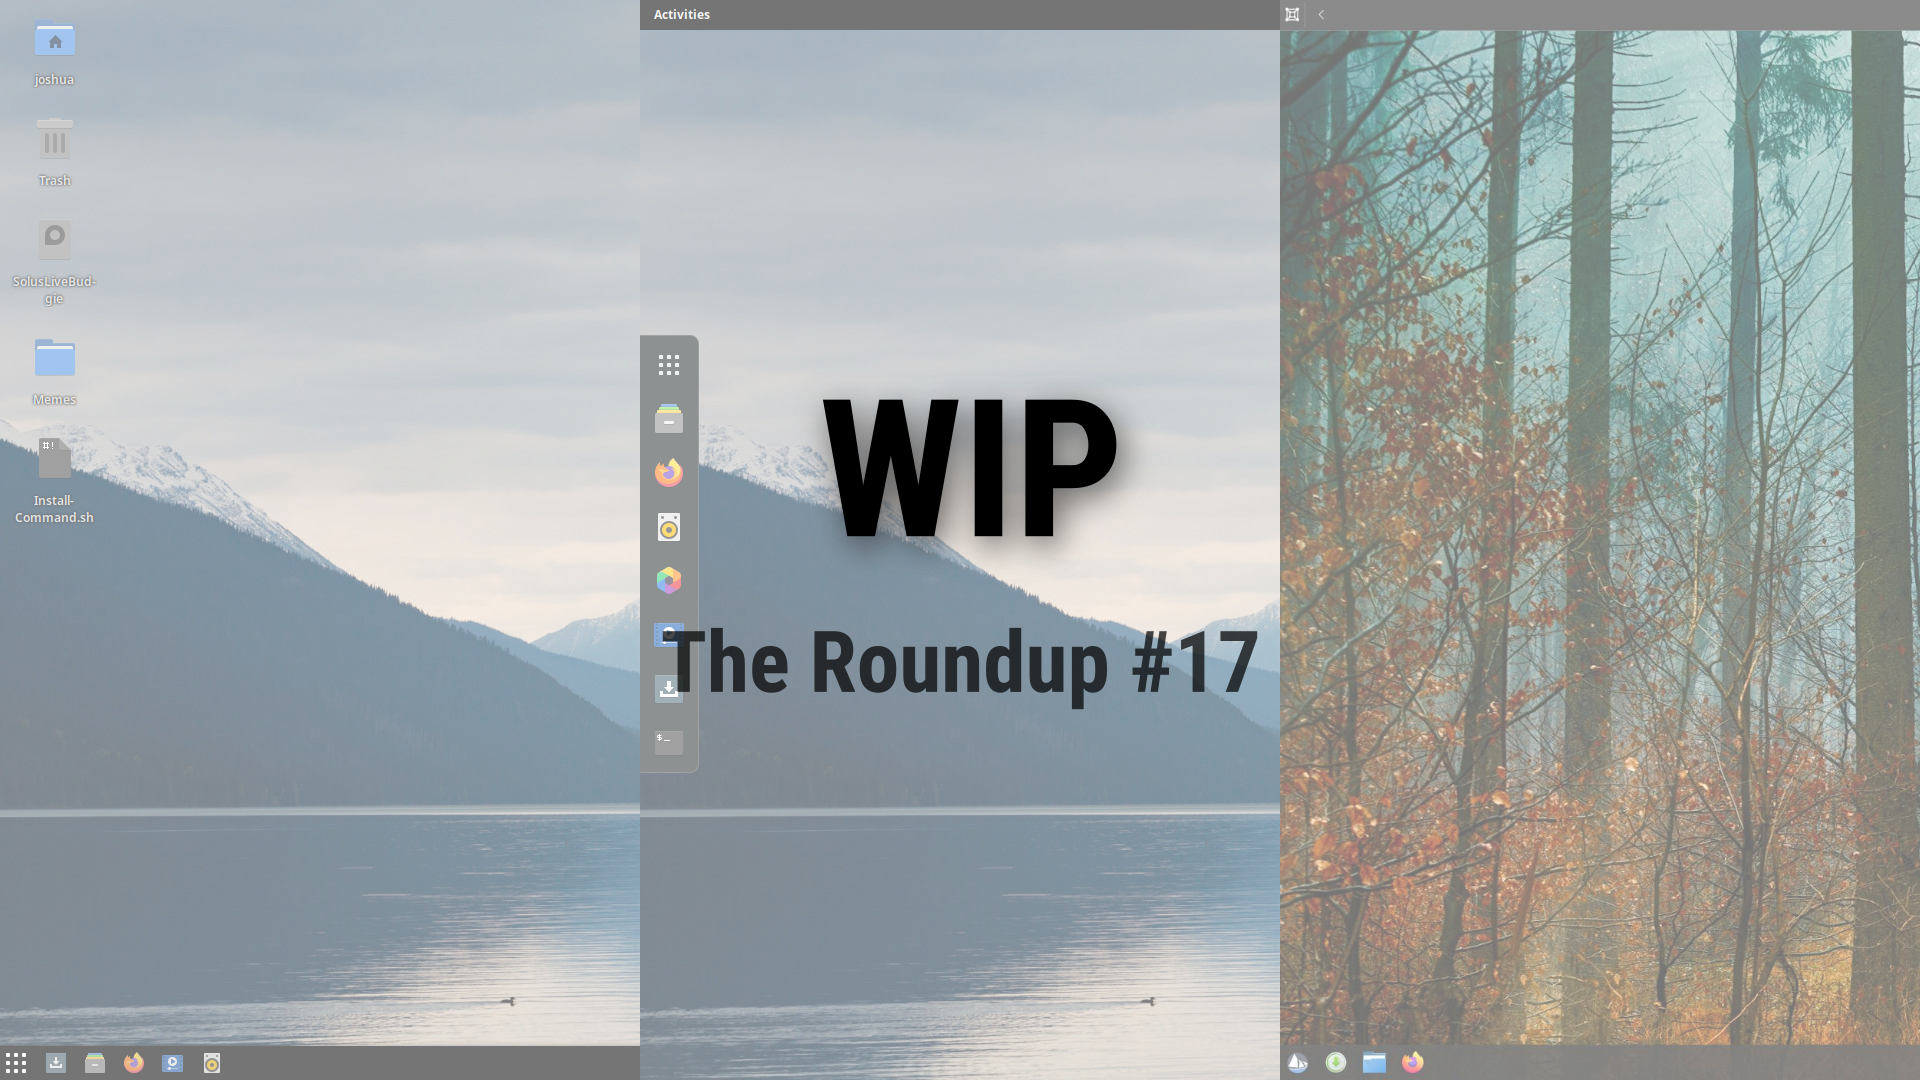
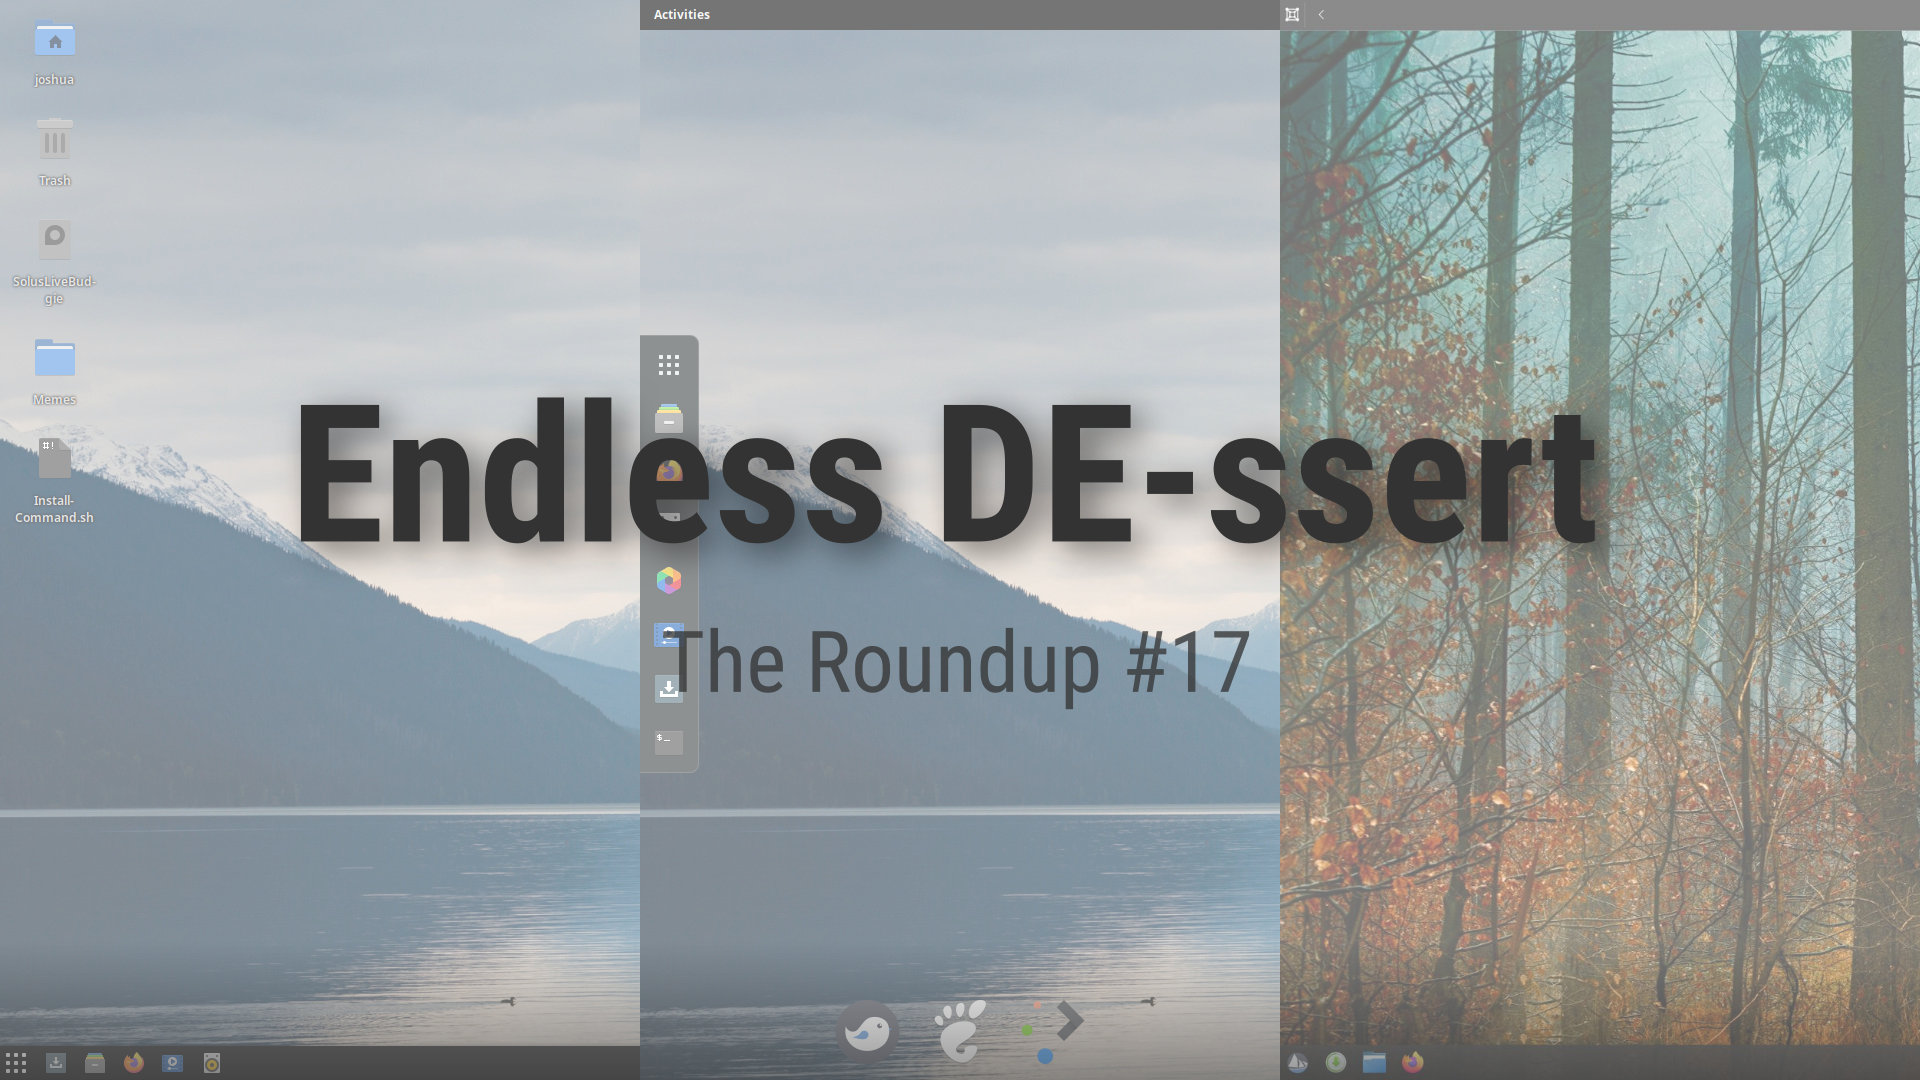
Sync Help Center docs, JS, updated blog post.

Changed region(s): [[0.0, 0.8861, 1.0, 1.0], [0.1562, 0.3667, 0.8438, 0.5194], [0.3438, 0.5806, 0.6562, 0.6722]]

diff --git a/themes/solus/static/js/site-3c250534e219b5e9ec3745b7411ceb74.min.js b/themes/solus/static/js/site-3c250534e219b5e9ec3745b7411ceb74.min.js
@@ -1,0 +1,1 @@
+var site;!function(t){var e=function(){function t(t){"string"!=typeof t.type&&(t.type="normal"),this.opts=t,this.El=document.createElement("div"),this.El.setAttribute("data-site","announcement"),this.El.setAttribute("data-site-type",t.type);var e=document.createElement("span");e.innerHTML=t.message,this.El.appendChild(e);var o=document.createElement("div");o.setAttribute("data-site","announcement-buttons"),this.CloseButton=this.CreateAnnouncementButton("Close"),o.appendChild(this.CloseButton),this.CloseButton.addEventListener("click",this.Hide.bind(this)),"string"==typeof t.url&&0!==t.url.length&&(this.LinkButton=this.CreateAnnouncementButton("string"==typeof t.linkButtonText?t.linkButtonText:"View"),o.appendChild(this.LinkButton),this.LinkButton.addEventListener("click",this.GoToLink.bind(this))),this.El.appendChild(o),this.Init()}return t.prototype.CreateAnnouncementButton=function(t){var e=document.createElement("div");return e.setAttribute("data-site","button"),e.innerText=t,e},t.prototype.GoToLink=function(){this.Hide(),location.assign(this.opts.url)},t.prototype.Hide=function(){localStorage.setItem(this.opts.key,"defined"),this.El.hasAttribute("data-site-displaymode")&&this.El.removeAttribute("data-site-displaymode")},t.prototype.Init=function(){"string"!=typeof localStorage.getItem(this.opts.key)&&(("string"!=typeof this.opts.noshowon||-1==location.href.indexOf(this.opts.noshowon))&&(this.El.setAttribute("data-site-displaymode","show"),document.body.appendChild(this.El)))},t}();t.Announcement=e}(site||(site={})),function(t){!function(e){e.Request=function(e,o,n,i){var s=new XMLHttpRequest,l="closest-mirror"==e?"GET":"POST";s.open(l,t.api.ApiEndpoint+e),s.onload=n.bind(this,s,i),s.send(o)},e.Download=function(e,o){if(navigator.onLine){var n={Edition:e,Version:o};t.api.Request("closest-mirror","",(function(t,e){var o=t.responseText,n=JSON.parse(o);n.Mirror=n.Mirror+"Solus-"+e.Version+"-"+e.Edition+".iso";var i=document.querySelector('a[title="hidden-download-url"]');i.href=n.Mirror,i.click()}),n)}},e.Search=function(e,o){if(navigator.onLine){var n={Term:e,Type:o.Type};t.api.Request("search",JSON.stringify(n),(function(t,e){if(200==t.status){var o=t.responseText,n=JSON.parse(o);0!==n.Results.length&&solbit.searchbox.Propagate(n.Results,e)}}),o)}}}(t.api||(t.api={}))}(site||(site={})),function(t){!function(e){e.Init=function(){for(var e=document.querySelectorAll('div[data-solus="solus-closest-download"]'),o=document.querySelectorAll('div[data-solus="solus-all-mirrors"]'),n=document.querySelectorAll('div[data-solus-type="solus-mirrors-list"]'),i=0;i<e.length;i++){(s=e[i]).addEventListener("click",t.api.Download.bind(this,s.getAttribute("data-solus-edition"),s.getAttribute("data-solus-version")))}for(i=0;i<o.length;i++){var s=o[i],l=n[i];solbit.position.Register(["bottom","center"],s,l),s.addEventListener("click",t.download.ToggleList.bind(this,s,l))}},e.ToggleList=function(t,e){var o=t.hasAttribute("active");o?t.removeAttribute("active"):t.setAttribute("active",""),solbit.position.Update(),solbit.render.ToggleDisplay(e,!o)}}(t.download||(t.download={}))}(site||(site={})),function(t){!function(e){e.HandleScroll=function(){null!==t.helpcenter.TableOfContentsButton&&t.events.HideList(t.helpcenter.TableOfContentsButton,t.helpcenter.TableOfContentsList)},e.EnableToggleButton=function(e,o){e.addEventListener("mouseup",t.events.ToggleButtonList.bind(this,e,o))},e.ToggleButtonList=function(e,o){e.hasAttribute("active")?t.events.HideList(e,o):t.events.ShowList(e,o)},e.ShowList=function(t,e){null!==t&&null!==t&&(t.setAttribute("active",""),solbit.position.Update(),solbit.render.ToggleDisplay(e,!0))},e.HideList=function(t,e){null!==t&&null!==t&&(t.removeAttribute("active"),solbit.render.ToggleDisplay(e,!1))}}(t.events||(t.events={}))}(site||(site={})),function(t){!function(e){e.Init=function(){"undefined"!=typeof hljs&&hljs.initHighlighting();var e=document.body.querySelector('div[data-solus="helpcenter-banner-welcome"] > input');if(null!==e){var o=document.body.querySelector('div[data-solus="helpcenter-banner-welcome"] > div[data-solbit="search-results"]');solbit.searchbox.Enable(e,o,"help-center-docs",t.api.Search)}t.helpcenter.TableOfContentsButton=document.body.querySelector('div[data-solbit="view-secondary"] > div[data-solbit="button"]'),null!==t.helpcenter.TableOfContentsButton&&(t.helpcenter.TableOfContentsList=document.body.querySelector('div[data-solbit="view-secondary"] > div[data-solbit="full-width-box"]'),solbit.position.Register(["bottom","center"],t.helpcenter.TableOfContentsButton,t.helpcenter.TableOfContentsList),t.events.EnableToggleButton(t.helpcenter.TableOfContentsButton,t.helpcenter.TableOfContentsList))}}(t.helpcenter||(t.helpcenter={}))}(site||(site={})),function(t){!function(e){e.Init=function(){if(t.technologies.FilterButton=document.querySelector('div[data-solbit="button"][data-solus="solus-our-projects"]'),null!==t.technologies.FilterButton){t.technologies.FilterList=document.querySelector('div[data-solbit="list"][data-solus-type="solus-our-projects-filterlist"]'),solbit.position.Register(["bottom","center"],t.technologies.FilterButton,t.technologies.FilterList),t.events.EnableToggleButton(t.technologies.FilterButton,t.technologies.FilterList),document.addEventListener("scroll",t.events.HideList.bind(this,t.technologies.FilterButton,t.technologies.FilterList));for(var e=document.querySelectorAll('div[data-solbit="list"][data-solus-type="solus-our-projects-filterlist"] > div[data-solbit="list-item"]'),o=0;o<e.length;o++){var n=e[o],i=n.getAttribute("data-solus-type");"all"==i?n.addEventListener("mouseup",t.technologies.ShowItemsOfType.bind(this,"all")):n.addEventListener("mouseup",t.technologies.Filter.bind(this,i))}}},e.ShowItemsOfType=function(e){var o='div[data-solbit="list"][data-solus-type="technologies"][class="our-projects"] > div[data-solbit="list-item"]';"all"!==e&&(o+='[data-solus-type="'+e+'"]');for(var n=document.querySelectorAll(o),i=0;i<n.length;i++){var s=n[i];s.hasAttribute("style")&&s.removeAttribute("style")}t.events.HideList(t.technologies.FilterButton,t.technologies.FilterList)},e.Filter=function(e){t.technologies.ShowItemsOfType(e);for(var o=document.querySelectorAll('div[data-solbit="list"][data-solus-type="technologies"][class="our-projects"] > div[data-solbit="list-item"]:not([data-solus-type="'+e+'"])'),n=0;n<o.length;n++){o[n].setAttribute("style","display: none;")}}}(t.technologies||(t.technologies={}))}(site||(site={})),function(t){t.IsSolhub=!1,t.Init=function(){solbit.Init(),t.api.ApiEndpoint=location.protocol+"//"+location.hostname+"/apis/v1/",t.helpcenter.Init(),"/download/"==location.pathname?t.download.Init():"/solus/technologies/"==location.pathname&&t.technologies.Init(),document.addEventListener("scroll",t.events.HandleScroll),new t.Announcement({key:"endless-de-ssert-the-roundup-17",linkButtonText:"Read More",message:"Read our latest roundup to learn about our new desktop icons implementation, GNOME 3.38, KDE and Plasma updates, and more!",noshowon:"endless-de-ssert-the-roundup-17",type:"normal",url:"https://getsol.us/2020/11/26/endless-de-ssert-the-roundup-17/"})}}(site||(site={}));

diff --git a/content/blog/2020-11-26-endless-de-ssert-the-roundup-17.md b/content/blog/2020-11-26-endless-de-ssert-the-roundup-17.md
@@ -1,12 +1,14 @@
 ---
-title: "WIP | The Roundup #17"
+title: "Endless DE-ssert | The Roundup #17"
 author: "joshua"
 categories:
 - budgie
+- packages
 - news
-date: 2020-11-25T22:21:29+02:00
+- roundup
+date: 2020-11-26T17:08:12+02:00
 featuredimage: "2020/11/the-roundup-17-featured.jpg"
-url: "/2020/11/25/wip"
+url: "/2020/11/26/endless-de-ssert-the-roundup-17"
 ---
 
 Welcome to The Roundup #17, your bytes of Solus news. In this roundup, we're talk about our new desktop icons implementation for Budgie, GNOME 3.38, KDE and Plasma updates, and more!
@@ -19,7 +21,7 @@ Welcome to The Roundup #17, your bytes of Solus news. In this roundup, we're tal
 
 Since the early days of Budgie, we have been using Nautilus' (now legacy) desktop icons implementation to provide desktop icon support. While some other desktop environments have strayed away from providing this functionality over the years, some going so far as to remove it entirely and require you to jump through hoops to enable it, we have always recognized that for many it is a cornerstone of their desktop experience, and as such it has remained a priority for us to retain that aspect of the Budgie experience.
 
-Of course, we recognized that keeping Solus on an old version of Nautilus was not going to be sustainable. Not only did we want a newer version of the GNOME's file manager with all the fancy bells and whistles that come with it, but we wanted to enable our downstreams to ship Budgie akin to how Solus does without potentially compromising on functionality.
+Of course, we recognized that keeping Solus on an old version of Nautilus was not going to be sustainable. Not only did we want a newer version of GNOME's file manager with all the fancy bells and whistles that come with it, but we wanted to enable our downstreams to ship Budgie akin to how Solus does without potentially compromising on functionality.
 
 To facilitate this, our goal from the start for Budgie 10.5.2 was to introduce a new, separate project that could be iterated on independently from Budgie Desktop itelf. This project needed to be rigorously focused and developed with an understanding of the scope and intent of the project, not trying to be a file manager but rather a method of quickly accessing the content and applications you consider most important.
 
@@ -115,7 +117,7 @@ The majority of the packages which have been removed during this GNOME Stack upg
 
 We have also held back deja-dup to 40.x, gnome-boxes to 3.36.x, and gnome-screenshot to 3.36.x due to their new requirement for libhandy. This is in addition to existing applications held back. It is always worth keeping in mind that should you desire the most recent versions of this software, flatpak and snap support is available!
 
-## GStreamer
+## GStreamer 1.18.1
 
 Gstreamer has been updated to its latest major release, 1.18.1. This includes improvements and fixes such as:
 
@@ -134,7 +136,35 @@ Gstreamer has been updated to its latest major release, 1.18.1. This includes im
   - respect YouTube bitrate recommendation when user sets the YouTube profile preset
   - separate high-10 video formats from 8-bit formats to improve depth negotiation and only advertise suitable input raw formats for the desired output depth
 
-## KDE Applications
+## Pulseaudio 14
+
+Audiophiles rejoice, we have updated our Pulseaudio to latest release, 14.0! While the improvements are [truly endless](https://www.freedesktop.org/wiki/Software/PulseAudio/Notes/14.0/), some of the highlights are:
+
+**Automatic switching to HDMI is now disabled by default.**
+
+This actually prevented Solus from upgrading to 13.x due to this issue, and we're happy to see it was an unintended change resolved in 14.0. Here's an excerpt from the Pulseaudio notes:
+
+> PulseAudio 13.0 started to switch output to HDMI automatically when module-switch-on-connect was loaded (upstream PulseAudio doesn't load it by default, but some distributions do). This change was not intentional, and caused very annoying behaviour in cases where waking up the monitor from sleep appears as a plug-in event in ALSA. Now module-switch-on-connect has a configurable blacklist, which by default prevents switching to HDMI devices.
+
+**Better support for some USB gaming headsets**
+
+Pulseaudio 14 introduces custom configuration for several headsets, such as:
+
+- HyperX Cloud Orbit S
+- LucidSound LS31
+- Razer Kraken Tournament Edition
+- SteelSeries Arctis 5 (2019 edition)
+- SteelSeries Arctis Pro (2019 edition)
+
+Pulseaudio will now also create separate stereo and mono voice sinks for these headsets
+
+**Flat volumes are now disabled by default**
+
+`flat-volumes` is a feature Solus has patched to be disabled for a long time now and we're happy to no longer be required to do so. Here is Pulseaudio's notes on the matter:
+
+> With flat volumes the stream volumes control also the sink volume. In the simple case of only one stream, the stream and the sink volume are always the same. In case of multiple streams, the sink volume is set to the maximum of the stream volumes. The purpose of this is to simplify the volume control of an application: the full volume range is always available via the application volume slider, so there's no need to think about the sink volume. In practice, however, this has caused more harm than good (the worst problem is that some applications automatically set their stream volume to 100%, causing the audio to be played at the maximum volume that the hardware can produce), and most large distributions have patched PulseAudio to disable flat volumes by default. Now that patching won't be needed any more.
+
+## KDE Applications 20.08.3
 
 KDE Applications have been updated to the latest release 20.08.3. You can see KDE's announcement [here](https://kde.org/announcements/releases/2020-11-apps-update/) and we've highlighted some changes below!
 
@@ -228,34 +258,6 @@ If Budgie or GNOME Shell aren't your cups of coffee (or tea), this week's update
   - Fix missing “Switch User” button on lockscreen with systemd 246.
   - lookandfeel: Fix switching to a different user session.
   - System Tray: Fall back to tool tip title if no title is set.
-
-## Pulseaudio 14
-
-Audiophiles rejoice, we have updated our Pulseaudio to latest release, 14.0! While the improvements are [truly endless](https://www.freedesktop.org/wiki/Software/PulseAudio/Notes/14.0/), some of the highlights are:
-
-**Automatic switching to HDMI is now disabled by default.**
-
-This actually prevented Solus from upgrading to 13.x due to this issue, and we're happy to see it was an unintended change resolved in 14.0. Here's an excerpt from the Pulseaudio notes:
-
-> PulseAudio 13.0 started to switch output to HDMI automatically when module-switch-on-connect was loaded (upstream PulseAudio doesn't load it by default, but some distributions do). This change was not intentional, and caused very annoying behaviour in cases where waking up the monitor from sleep appears as a plug-in event in ALSA. Now module-switch-on-connect has a configurable blacklist, which by default prevents switching to HDMI devices.
-
-**Better support for some USB gaming headsets**
-
-Pulseaudio 14 introduces custom configuration for several headsets, such as:
-
-- HyperX Cloud Orbit S
-- LucidSound LS31
-- Razer Kraken Tournament Edition
-- SteelSeries Arctis 5 (2019 edition)
-- SteelSeries Arctis Pro (2019 edition)
-
-Pulseaudio will now also create separate stereo and mono voice sinks for these headsets
-
-**Flat volumes are now disabled by default**
-
-`flat-volumes` is a feature Solus has patched to be disabled for a long time now and we're happy to no longer be required to do so. Here is Pulseaudio's notes on the matter:
-
-> With flat volumes the stream volumes control also the sink volume. In the simple case of only one stream, the stream and the sink volume are always the same. In case of multiple streams, the sink volume is set to the maximum of the stream volumes. The purpose of this is to simplify the volume control of an application: the full volume range is always available via the application volume slider, so there's no need to think about the sink volume. In practice, however, this has caused more harm than good (the worst problem is that some applications automatically set their stream volume to 100%, causing the audio to be played at the maximum volume that the hardware can produce), and most large distributions have patched PulseAudio to disable flat volumes by default. Now that patching won't be needed any more.
 
 ## Qt5 5.15.2
 

diff --git a/content/articles/software/rust/en.md b/content/articles/software/rust/en.md
@@ -1,0 +1,21 @@
++++
+title = "Rust"
+lastmod = "2020-11-23T00:31:30+01:00"
++++
+# Rust
+
+There are two ways to install Rust. This article explains how they differ and which one should be used, according to users' needs.
+
+Rust can be obtained by:
+ - Installing the `rustup` package, then installing any Rust target and/or tool using `rustup` itself
+ - Installing the `rust` package
+
+Users should prefer the `rustup` way, since it gives the freedom to install any tools and targets, including nightly versions and debugging utilities, although it may require editing the `PATH` variable depending on your shell setup. According to the official Rust [installation guide](https://www.rust-lang.org/tools/install):
+
+> It is customary for Rust developers to include `~/.cargo/bin` in their `PATH `environment variable. During installation rustup will attempt to configure the `PATH`. Because of differences between platforms, command shells, and bugs in rustup, the modifications to `PATH` may not take effect until the console is restarted, or the user is logged out, or it may not succeed at all.
+
+The `rust` package, in fact, is present in the Solus repository for building packages that depend on it and it is not intended to be used by the final user, although it is possible and supported. Users that want to use the `rust` package for their projects will be limited to the targets and tools that Solus needs to support, namely x86_64 and i686 Linux targets and `cargo`. On the other hand, the `rust` package is ready to use after its installation with no extra configurations.
+
+Either way, it is also recommended to install our `system.devel` component, which is typically required for compiling. See our documentation for it [here](/articles/package-management/basics/en/#base-development-tools).
+
+As a final note, it is possible to [configure](https://rust-lang.github.io/rustup/installation/package-managers.html) `rustup` to use the system toolchain. This setup is **discouraged** unless aimed at developing applications targeting Solus itself.

diff --git a/content/articles/configuration/changing-shell/en.md b/content/articles/configuration/changing-shell/en.md
@@ -1,6 +1,6 @@
 +++
 title = "Changing Shell"
-lastmod = "2020-04-10T15:10:59-04:00"
+lastmod = "2020-11-05T15:10:59-04:00"
 +++
 # Changing Shell
 
@@ -28,9 +28,9 @@ To switch to another shell, first install the appropriate package, followed by t
 
 Example:
 
-- For Zsh: `chsh -s /bin/zsh`
+- For Zsh: `sudo chsh -s /bin/zsh`
 
-- For Fish: `chsh -s /bin/fish`
+- For Fish: `sudo chsh -s /usr/bin/fish`
 
 ## Troubleshooting
 
